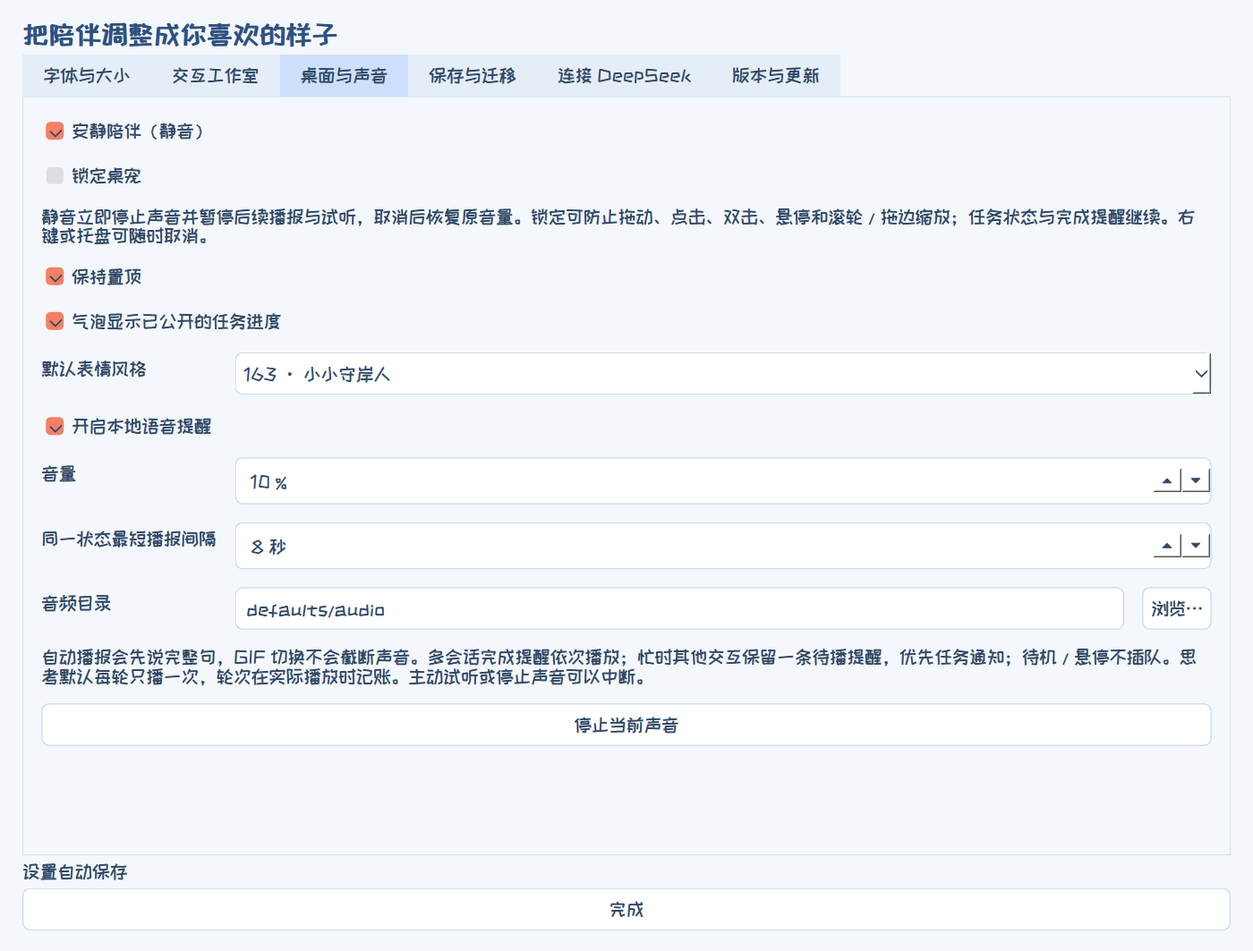
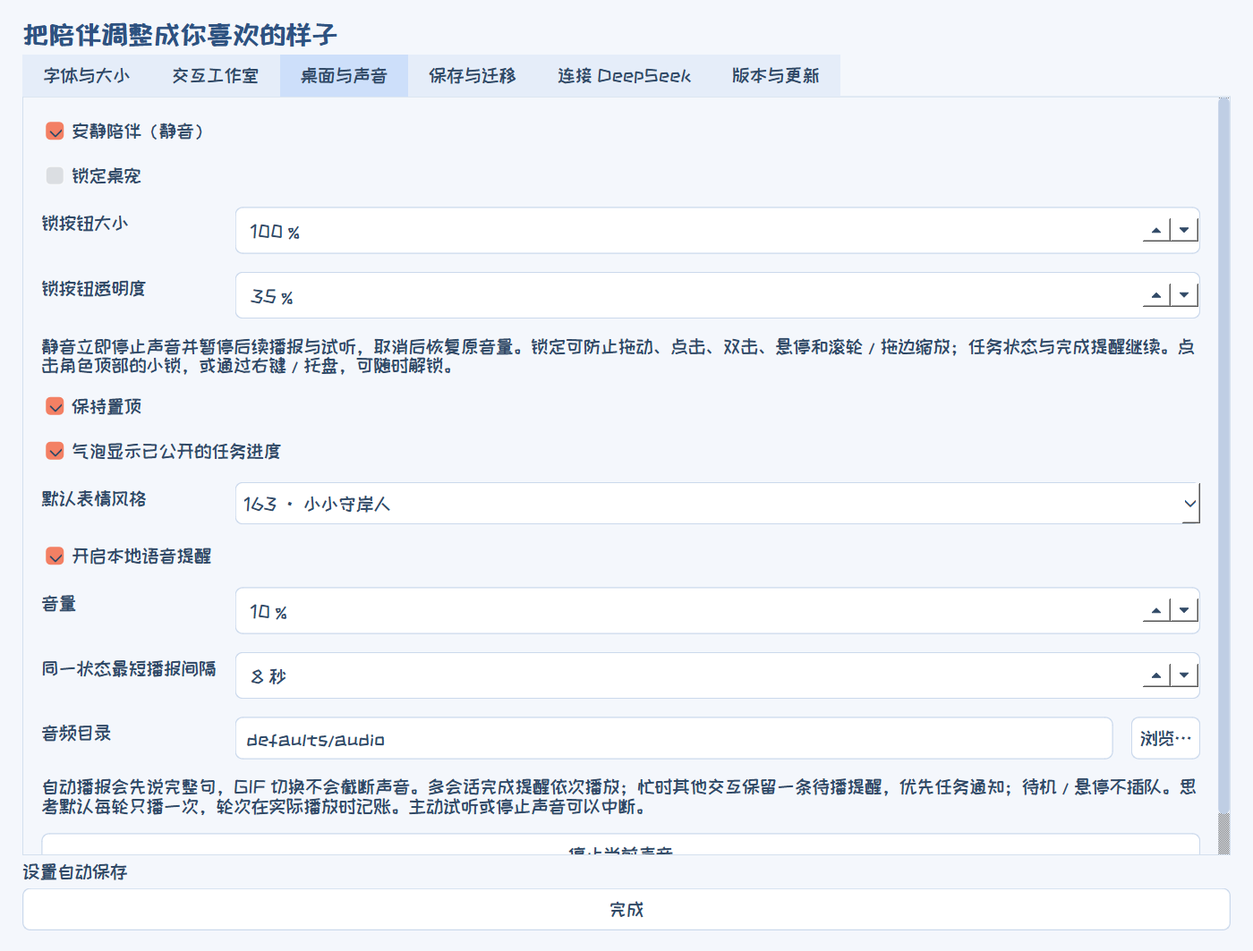
Add hover-revealed lock button with proportional size controls

Changed region(s): [[0.0307, 0.0931, 0.9829, 0.9003], [0.1843, 0.6209, 0.3071, 0.6519], [0.0307, 0.6209, 0.0921, 0.6519]]

diff --git a/tests/test_settings_controls.py b/tests/test_settings_controls.py
@@ -2,7 +2,7 @@
 import copy,json,pathlib,shutil,tempfile,unittest,wave
 from unittest.mock import patch
 from PySide6.QtCore import Qt,QPoint,QPointF,QEvent
-from PySide6.QtGui import QMouseEvent,QWheelEvent
+from PySide6.QtGui import QMouseEvent,QWheelEvent,QEnterEvent
 from PySide6.QtWidgets import QApplication,QPushButton
 from shorekeeper_pet import pet as module
 from shorekeeper_pet.config_io import save_atomic,migrate_settings,export_bundle,import_bundle
@@ -113,6 +113,67 @@ class SettingsControlsTests(unittest.TestCase):
             for name in ['audio/voice.wav','fonts/test.otf',module.ASSETS[self.aid]['path']]:self.assertEqual((source/name).read_bytes(),(self.root/name).read_bytes())
         with patch.object(p,'refresh_assets',return_value=[]): p.apply_settings(cfg)
         self.assertTrue(p.locked);self.assertTrue(p.options['audio_muted'])
+
+    def test_direct_lock_clicks_toggle_without_drag_or_character_reaction(self):
+        p=self.pet;button=p.lock_button;point=QPointF(button.rect().center())
+        before=(p.pos(),p.controller.serial)
+        for expected,tip in ((True,'点击解锁'),(False,'点击锁定')):
+            self.mouse(button,QEvent.Type.MouseButtonPress,point)
+            self.mouse(button,QEvent.Type.MouseButtonRelease,point)
+            self.assertEqual(p.locked,expected);self.assertEqual(button.isChecked(),expected)
+            self.assertEqual(button.toolTip(),tip)
+            self.assertEqual((p.pos(),p.controller.serial),before)
+            self.assertIsNone(p.drag_offset);self.assertFalse(p.click_timer.isActive())
+        self.mouse(button,QEvent.Type.MouseButtonPress,point)
+        outside=QPointF(button.width()+30,button.height()+30)
+        self.mouse(button,QEvent.Type.MouseMove,outside)
+        self.mouse(button,QEvent.Type.MouseButtonRelease,outside)
+        self.assertFalse(p.locked);self.assertEqual(p.pos(),before[0])
+
+    def test_lock_button_stays_centered_and_syncs_settings_and_hover(self):
+        p=self.pet;button=p.lock_button
+        for scale in (.5,1,1.5):
+            p.set_scale(scale)
+            self.assertAlmostEqual(button.x()+button.width()/2,p.pet_rect.center().x()*p.scale_factor,delta=1)
+            self.assertEqual(button.y(),round(p.pet_rect.top()*p.scale_factor))
+            self.assertTrue(p.rect().contains(button.geometry()))
+        p.hover_timer.start(500);p.click_timer.start(500);serial=p.controller.serial
+        point=QPointF(button.rect().center())
+        QApplication.sendEvent(button,QEnterEvent(point,point,QPointF(button.mapToGlobal(point.toPoint()))))
+        self.assertFalse(p.hover_timer.isActive());self.assertFalse(p.click_timer.isActive())
+        self.assertEqual(p.controller.serial,serial)
+        p.open_preferences('桌面与声音')
+        p.preferences.controls['interaction_locked'].setChecked(True)
+        self.assertTrue(button.isChecked());self.assertEqual(button.toolTip(),'点击解锁')
+        button.click();self.assertFalse(p.preferences.controls['interaction_locked'].isChecked())
+
+    def test_lock_transparency_changes_pixels_and_survives_export(self):
+        p=self.pet;p.open_preferences('桌面与声音');spin=p.preferences.controls['lock_button_transparency']
+        spin.setValue(0);solid=p.lock_button.grab().toImage()
+        spin.setValue(80);faint=p.lock_button.grab().toImage()
+        solid_alpha=sum(solid.pixelColor(x,y).alpha() for y in range(solid.height()) for x in range(solid.width()))
+        faint_alpha=sum(faint.pixelColor(x,y).alpha() for y in range(faint.height()) for x in range(faint.width()))
+        self.assertGreater(solid_alpha,faint_alpha*3)
+        p.preferences.controls['lock_button_size'].setValue(135)
+        cfg=module.load_settings();self.assertEqual(cfg['appearance']['lock_button_transparency'],80)
+        archive=self.root.parent/'lock.zip';self.assertEqual(export_bundle(archive,cfg,self.root),[])
+        restored=import_bundle(archive,self.root.parent/'换电脑')
+        self.assertEqual(restored['appearance']['lock_button_transparency'],80)
+        self.assertEqual(restored['appearance']['lock_button_size'],135)
+
+    def test_hover_reveals_lock_even_when_locked_and_size_scales_proportionally(self):
+        p=self.pet;b=p.lock_button
+        with patch('shorekeeper_pet.lock_button.QCursor.pos',return_value=QPoint(-3000,-3000)) as cursor:
+            for locked in (False,True):
+                p.set_option('interaction_locked',locked)
+                cursor.return_value=p.mapToGlobal(QPoint(-30,-30));b.refresh_visibility();self.assertFalse(b.isVisible())
+                cursor.return_value=p.mapToGlobal((p.pet_rect.center()*p.scale_factor).toPoint());b.refresh_visibility();self.assertTrue(b.isVisible())
+                cursor.return_value=p.mapToGlobal(b.geometry().center());b.refresh_visibility();self.assertTrue(b.isVisible())
+                cursor.return_value=p.mapToGlobal(p.quota_hit_rect().center().toPoint());b.refresh_visibility();self.assertFalse(b.isVisible())
+            p.set_scale(1);p.set_option('lock_button_size',75);small=b.width()
+            p.set_option('lock_button_size',150);self.assertAlmostEqual(b.width(),small*2,delta=1)
+            one=b.width();p.set_scale(1.5);self.assertAlmostEqual(b.width(),one*1.5,delta=1)
+            self.assertAlmostEqual(b.x()+b.width()/2,p.pet_rect.center().x()*p.scale_factor,delta=1)
 
     def test_legacy_quiet_migrates_and_explicit_new_preference_wins(self):
         self.assertTrue(migrate_settings({'quiet':True})['appearance']['audio_muted'])

diff --git a/shorekeeper_pet/lock_button.py b/shorekeeper_pet/lock_button.py
@@ -1,0 +1,80 @@
+"""A small hover-revealed lock toggle above the character."""
+from PySide6.QtCore import Qt,QRectF
+from PySide6.QtGui import QPainter,QPainterPath,QPen,QColor,QCursor
+from PySide6.QtWidgets import QAbstractButton
+
+
+class LockButton(QAbstractButton):
+    def __init__(self,pet):
+        super().__init__(pet);self.pet=pet;self.hovered=False
+        self.setCursor(Qt.CursorShape.PointingHandCursor)
+        self.setFocusPolicy(Qt.FocusPolicy.NoFocus)
+        self.setAttribute(Qt.WidgetAttribute.WA_TranslucentBackground)
+        self.setCheckable(True)
+        self.clicked.connect(lambda checked:pet.set_option('interaction_locked',checked))
+        self.sync();self.hide()
+
+    def sync(self):
+        self.setChecked(self.pet.locked)
+        text='点击解锁' if self.pet.locked else '点击锁定'
+        self.setToolTip(text);self.setAccessibleName(text);self.update()
+
+    def position_on_pet(self):
+        p=self.pet;s=p.scale_factor;r=p.pet_rect
+        size=max(1,round(28*p.options['lock_button_size']/100*p.options['pet_size']/230*s))
+        self.setGeometry(round(r.center().x()*s-size/2),max(0,round(r.top()*s)),size,size)
+        self.sync();self.raise_();self.refresh_visibility()
+
+    def refresh_visibility(self):
+        p=self.pet
+        over=p.pet_rect.contains(p.mapFromGlobal(QCursor.pos())/p.scale_factor)
+        self.setVisible(p.isVisible() and (over or self.isDown()))
+
+    def enterEvent(self,event):
+        self.hovered=True;self.pet.hover_timer.stop();self.pet.click_timer.stop();self.update()
+        super().enterEvent(event)
+
+    def leaveEvent(self,event):
+        self.hovered=False;self.update();super().leaveEvent(event)
+
+    def mousePressEvent(self,event):
+        self.pet.hover_timer.stop();self.pet.click_timer.stop()
+        if event.button()==Qt.MouseButton.LeftButton:self.setDown(True)
+        self.refresh_visibility();event.accept()
+
+    def mouseMoveEvent(self,event):
+        self.pet.hover_timer.stop()
+        if event.buttons()&Qt.MouseButton.LeftButton:self.setDown(self.rect().contains(event.position().toPoint()))
+        event.accept()
+
+    def mouseReleaseEvent(self,event):
+        if event.button()==Qt.MouseButton.LeftButton:
+            activate=self.isDown() and self.rect().contains(event.position().toPoint())
+            self.setDown(False)
+            if activate:self.click()
+        event.accept()
+
+    def mouseDoubleClickEvent(self,event): self.setDown(False);event.accept()
+    def wheelEvent(self,event): event.accept()
+    def contextMenuEvent(self,event): self.pet.contextMenuEvent(event)
+
+    def paintEvent(self,event):
+        painter=QPainter(self);painter.setRenderHint(QPainter.RenderHint.Antialiasing)
+        painter.scale(self.width()/36,self.height()/36)
+        opacity=1-self.pet.options['lock_button_transparency']/100
+        painter.setOpacity(opacity)
+        if self.isDown():painter.translate(0,1)
+        # Both outlines remain legible over light hair and dark backgrounds.
+        shackle=QPainterPath()
+        if self.isChecked():
+            shackle.moveTo(11,17);shackle.lineTo(11,11);shackle.cubicTo(11,2,25,2,25,11);shackle.lineTo(25,17)
+        else:
+            shackle.moveTo(13,17);shackle.lineTo(13,10);shackle.cubicTo(13,1,28,1,28,10)
+        painter.setPen(QPen(QColor('#203f67'),5,Qt.PenStyle.SolidLine,Qt.PenCapStyle.RoundCap));painter.drawPath(shackle)
+        painter.setPen(QPen(QColor('#edf6ff'),2.8,Qt.PenStyle.SolidLine,Qt.PenCapStyle.RoundCap));painter.drawPath(shackle)
+        painter.setPen(QPen(QColor('#dbefff'),1.5))
+        painter.setBrush(QColor('#2c6598' if self.isChecked() else '#55728e'))
+        painter.drawRoundedRect(QRectF(7,16,22,16),4,4)
+        painter.setPen(Qt.PenStyle.NoPen);painter.setBrush(QColor('#f3faff'))
+        painter.drawEllipse(QRectF(16.2,21,3.6,3.6));painter.drawRoundedRect(QRectF(17,23,2,4),.8,.8)
+        painter.end()

diff --git a/shorekeeper_pet/pet.py b/shorekeeper_pet/pet.py
@@ -22,6 +22,7 @@ from .presentation_size import EdgeResize
 from .media_library import load_catalog
 from .presets import load_defaults,default_bindings
 from .update_ui import UpdateController
+from .lock_button import LockButton
 
 SETTINGS=ROOT/'settings.json'
 STATES={
@@ -130,6 +131,7 @@ class Pet(PetRenderer,QWidget):
         self.hovered=False; self.ignore_release=False
         self.click_timer=QTimer(self); self.click_timer.setSingleShot(True); self.click_timer.timeout.connect(lambda:self.react('pet'))
         self.hover_timer=QTimer(self); self.hover_timer.setSingleShot(True); self.hover_timer.timeout.connect(self.hover_react)
+        self.lock_button=LockButton(self)
         icon_im=self.animation.frames[0].scaled(64,64,Qt.AspectRatioMode.KeepAspectRatio,Qt.TransformationMode.SmoothTransformation)
         self.icon=QIcon(str(ROOT/'assets/shorekeeper.ico'))
         if self.icon.isNull(): self.icon=QIcon(QPixmap.fromImage(icon_im))
@@ -302,6 +304,7 @@ class Pet(PetRenderer,QWidget):
             if self.controller.owner=='preview' and self.preview_audio_clip is not None:
                 binding=dict(binding,audio_clips=[dict(self.preview_audio_clip,enabled=True)])
             self.voice.trigger(self.state,binding,self.options,preview=self.controller.owner=='preview',task=task_key(self.notification or self.live_status),notification=self.controller.owner=='notification'); self.update_layout()
+        self.lock_button.refresh_visibility()
         self.update_bubble()
         self.update()
 
@@ -348,6 +351,7 @@ class Pet(PetRenderer,QWidget):
             self.drag_offset=event.globalPosition().toPoint()-self.pos(); self.drag_origin=event.globalPosition().toPoint(); self.dragged=False
 
     def mouseMoveEvent(self, event):
+        self.lock_button.refresh_visibility()
         if self.locked: event.accept(); return
         if self.quota_resize.move(event,self.quota_hit_rect()): return
         if self.drag_offset is not None and event.buttons()&Qt.MouseButton.LeftButton:
@@ -385,6 +389,7 @@ class Pet(PetRenderer,QWidget):
         else: event.ignore()
 
     def enterEvent(self,event):
+        self.lock_button.refresh_visibility()
         if not self.locked: self.hover_timer.start(1000)
         super().enterEvent(event)
 
@@ -396,7 +401,7 @@ class Pet(PetRenderer,QWidget):
         super().leaveEvent(event)
 
     def hover_react(self):
-        if self.locked: return
+        if self.locked or self.lock_button.geometry().contains(self.mapFromGlobal(QCursor.pos())): return
         local=self.mapFromGlobal(QCursor.pos())/self.scale_factor
         if not self.quota_resize.active and self.drag_offset is None and not self.override and not self.hovered and self.underMouse() and self.pet_rect.contains(local):
             self.hovered=True; self.react('hover')

diff --git a/shorekeeper_pet/appearance.py b/shorekeeper_pet/appearance.py
@@ -1,6 +1,6 @@
 import math
 from PySide6.QtGui import QFont,QFontDatabase
-DEFAULTS=dict(audio_muted=False,interaction_locked=False,check_updates_on_start=True,ignored_update_version='',font_family='LXGW WenKai',bubble_font_family='ZCOOL KuaiLe',bubble_font_size=19,quota_font_size=17,ui_font_size=17,bubble_width=390,bubble_width_ratio=1.0,quota_scale=1.0,pet_size=230,volume=75,audio_enabled=False,audio_cooldown=12,audio_directory='audio',deepseek_home='',deepseek_executable='',launch_with_deepseek=False)
+DEFAULTS=dict(lock_button_size=100,lock_button_transparency=35,audio_muted=False,interaction_locked=False,check_updates_on_start=True,ignored_update_version='',font_family='LXGW WenKai',bubble_font_family='ZCOOL KuaiLe',bubble_font_size=19,quota_font_size=17,ui_font_size=17,bubble_width=390,bubble_width_ratio=1.0,quota_scale=1.0,pet_size=230,volume=75,audio_enabled=False,audio_cooldown=12,audio_directory='audio',deepseek_home='',deepseek_executable='',launch_with_deepseek=False)
 
 def load_fonts(root):
     families=[]
@@ -13,7 +13,7 @@ def load_fonts(root):
 def appearance(settings):
     result=dict(DEFAULTS); item=settings.get('appearance',{})
     if isinstance(item,dict): result.update({k:v for k,v in item.items() if k in DEFAULTS})
-    for key,low,high in [('bubble_font_size',12,40),('quota_font_size',12,32),('ui_font_size',13,28),('bubble_width',300,650),('bubble_width_ratio',.75,4),('quota_scale',.5,2.5),('pet_size',140,420),('volume',0,100),('audio_cooldown',0,300)]:
+    for key,low,high in [('lock_button_size',50,200),('lock_button_transparency',0,90),('bubble_font_size',12,40),('quota_font_size',12,32),('ui_font_size',13,28),('bubble_width',300,650),('bubble_width_ratio',.75,4),('quota_scale',.5,2.5),('pet_size',140,420),('volume',0,100),('audio_cooldown',0,300)]:
         value=result[key]; result[key]=max(low,min(high,value)) if isinstance(value,(float,int)) and math.isfinite(value) else DEFAULTS[key]
     for key in ('font_family','bubble_font_family','audio_directory','deepseek_home','deepseek_executable'):
         if not isinstance(result[key],str): result[key]=DEFAULTS[key]

diff --git a/shorekeeper_pet/preferences.py b/shorekeeper_pet/preferences.py
@@ -37,7 +37,9 @@ class Preferences(QDialog):
         voice=self.tab('桌面与声音')
         muted=QCheckBox('安静陪伴（静音）'); muted.toggled.connect(lambda value:self.change('audio_muted',value)); self.controls['audio_muted']=muted; voice.addRow(muted)
         locked=QCheckBox('锁定桌宠'); locked.toggled.connect(lambda value:self.change('interaction_locked',value)); self.controls['interaction_locked']=locked; voice.addRow(locked)
-        tip=QLabel('静音立即停止声音并暂停后续播报与试听，取消后恢复原音量。锁定可防止拖动、点击、双击、悬停和滚轮／拖边缩放；任务状态与完成提醒继续。右键或托盘可随时取消。'); tip.setWordWrap(True); voice.addRow(tip)
+        voice.addRow('锁按钮大小',self.spin('lock_button_size',50,200,' %'))
+        voice.addRow('锁按钮透明度',self.spin('lock_button_transparency',0,90,' %'))
+        tip=QLabel('静音立即停止声音并暂停后续播报与试听，取消后恢复原音量。锁定可防止拖动、点击、双击、悬停和滚轮／拖边缩放；任务状态与完成提醒继续。点击角色顶部的小锁，或通过右键／托盘，可随时解锁。'); tip.setWordWrap(True); voice.addRow(tip)
         self.top=QCheckBox('保持置顶'); self.top.toggled.connect(lambda value:pet.set_top(value) if not self.loading else None); voice.addRow(self.top)
         self.notes=QCheckBox('气泡显示已公开的任务进度'); self.notes.toggled.connect(lambda value:pet.set_notes(value) if not self.loading else None); voice.addRow(self.notes)
         self.pack=QComboBox(); self.pack.addItem('163 · 小小守岸人','163'); self.pack.addItem('GB0227 · 近景表情','GB0227'); self.pack.currentIndexChanged.connect(lambda:pet.set_pack(self.pack.currentData()) if not self.loading else None); voice.addRow('默认表情风格',self.pack)

diff --git a/shorekeeper_pet/settings_checks.py b/shorekeeper_pet/settings_checks.py
@@ -26,6 +26,10 @@ def verify_controls(pet):
             started=pet.voice.trigger('pet',binding,pet.options,preview=True)
             pet.set_option('audio_muted',True)
             muted=started and not pet.voice.busy and not pet.voice.pending.isActive() and pet.voice.queued is None and not pet.voice.trigger('pet',binding,pet.options,preview=True)
-        return dict(lock_pointer_check=locked,unlock_check=unlocked,mute_playback_check=muted)
+        pet.set_option('interaction_locked',False);pet.lock_button.click()
+        direct_lock=pet.locked and pet.lock_button.toolTip()=='点击解锁'
+        pet.lock_button.click()
+        direct_lock=direct_lock and not pet.locked and pet.lock_button.toolTip()=='点击锁定'
+        return dict(lock_button_check=direct_lock,lock_pointer_check=locked,unlock_check=unlocked,mute_playback_check=muted)
     finally:
         pet.voice.stop();pet.options=original;pet.save_settings();pet.preferences.refresh_controls()

diff --git a/shorekeeper_pet/renderer.py b/shorekeeper_pet/renderer.py
@@ -72,6 +72,7 @@ class PetRenderer:
             self.resize(neww,newh)
             if anchor:
                 self.move(round(anchor[0]-self.pet_rect.center().x()*self.scale_factor),round(anchor[1]-self.pet_rect.bottom()*self.scale_factor)); self.clamp_position()
+        self.lock_button.position_on_pet()
         self.setToolTip(self.quota_details()); self.update_bubble(); self.size_changed.emit()
 
     def update_bubble(self):

diff --git a/shorekeeper_pet/paths.py b/shorekeeper_pet/paths.py
@@ -1,7 +1,7 @@
 import os,pathlib,sys
 ROOT=pathlib.Path(sys.executable).resolve().parent if getattr(sys,'frozen',False) else pathlib.Path(__file__).resolve().parents[1]
 DSH_HOME=pathlib.Path(os.environ.get('DSH_HOME',pathlib.Path.home()/'.dsh'))
-VERSION='0.2.0'
+VERSION='0.2.1'
 APP_NAME='守岸人DeepSeek桌宠启动'
 EXECUTABLE_NAME=APP_NAME+'.exe'
 PORTABLE_DIRNAME='守岸人DeepSeek桌宠'

diff --git a/README.en.md b/README.en.md
@@ -23,7 +23,7 @@ Recorded with **v0.1.0**, the roughly two-minute demo covers task states, concur
 ## Get started
 
 1. Install the Windows client from the [official DeepSeek Harness website](https://www.deepseek.com/harness/), open it, and sign in.
-2. Download [Shorekeeper-DeepSeek-Windows-v0.2.0.zip](https://github.com/Doya16/shorekeeper-deepseek-pet/releases/download/v0.2.0/Shorekeeper-DeepSeek-Windows-v0.2.0.zip), extract it completely, and run **守岸人DeepSeek桌宠启动.exe**.
+2. Download [Shorekeeper-DeepSeek-Windows-v0.2.1.zip](https://github.com/Doya16/shorekeeper-deepseek-pet/releases/download/v0.2.1/Shorekeeper-DeepSeek-Windows-v0.2.1.zip), extract it completely, and run **守岸人DeepSeek桌宠启动.exe**.
 3. Fully quit Harness from its tray menu. Right-click the pet → **设置 → 连接 DeepSeek → 安装 / 更新 Harness 连接插件** (Settings → Connect to DeepSeek → Install / Update Harness Connection Plugin).
 4. Reopen Harness and start a task. The pet follows the most recently active conversation.
 
@@ -34,14 +34,16 @@ Repeat steps 3–4 when updating the connection plugin. No additional API key is
 Right-click the pet or tray icon → **设置…** (Settings). One window contains size and fonts, the interaction studio, desktop and sound, save and migration, client connection, and updates.
 
 - **安静陪伴（静音）** (Mute) immediately stops current and queued audio, and silences automatic speech and previews. Unmuting restores the original volume without replaying missed speech.
-- **锁定桌宠** (Lock pet) prevents dragging, clicks, double-clicks, hover reactions and wheel/edge resizing. Task animations and completion notifications continue. Right-click or use the tray to unlock.
+- **Top lock button:** move the pointer over the character to reveal its small lock at the top center. Click to lock or unlock; it hides when the pointer leaves. Its tooltip shows **点击锁定** (Click to lock) or **点击解锁** (Click to unlock). Locking prevents dragging, clicks, double-clicks, hover reactions and wheel/edge resizing. Task animations and completion notifications continue. Right-click or use the tray to unlock.
 - Both options save automatically and travel with exported settings and portable packages. The old quiet-companion option becomes mute; locking is off by default.
+
+<img src="docs/demo/pet-lock.png" width="180" alt="桌宠顶部小锁（示例）">
 
 ![Unified desktop and sound settings](docs/demo/unified-settings.png)
 
 ## Checking for updates and keeping your settings
 
-Current version: **v0.2.0**. After each launch, the pet checks GitHub for a stable release and prompts you when a newer one is available. Right-click → **设置 → 版本与更新 → 立即检查更新** (Check for updates) to check manually.
+Current version: **v0.2.1**. After each launch, the pet checks GitHub for a stable release and prompts you when a newer one is available. Right-click → **设置 → 版本与更新 → 立即检查更新** (Check for updates) to check manually.
 
 Open **设置 → 版本与更新** (Settings → Version & Updates) to disable startup checks, check immediately, or restore ignored version reminders. A new-version prompt lets you open the release page, back up settings and media, remind you later, or ignore that version. A failed background check does not interrupt the pet.
 
@@ -51,8 +53,8 @@ Open **设置 → 版本与更新** (Settings → Version & Updates) to disable 
 
 | Your installation | How to update |
 | --- | --- |
-| v0.1.2 | Download the [v0.2.0 program patch](https://github.com/Doya16/shorekeeper-deepseek-pet/releases/download/v0.2.0/Shorekeeper-DeepSeek-Settings-Patch-v0.2.0.zip), exit the pet, extract over its existing folder, and restart |
-| New installation or another older version | Extract the [v0.2.0 full package](https://github.com/Doya16/shorekeeper-deepseek-pet/releases/download/v0.2.0/Shorekeeper-DeepSeek-Windows-v0.2.0.zip) into a new folder, then import your exported settings and assets ZIP if you have one |
+| v0.2.0 | Download the [v0.2.1 program patch](https://github.com/Doya16/shorekeeper-deepseek-pet/releases/download/v0.2.1/Shorekeeper-DeepSeek-Settings-Patch-v0.2.1.zip), exit the pet, extract over its existing folder, and restart |
+| New installation or another older version | Extract the [v0.2.1 full package](https://github.com/Doya16/shorekeeper-deepseek-pet/releases/download/v0.2.1/Shorekeeper-DeepSeek-Windows-v0.2.1.zip) into a new folder, then import your exported settings and assets ZIP if you have one |
 
 The program patch preserves **GIFs / images, audio, bubble captions, fonts, and personal settings**. Before updating, use **保存与迁移 → 导出配置与素材包（ZIP）** (Save & Migrate → Export Settings & Assets ZIP) to keep a backup. Extract program patches into the application folder; do not import them as settings.
 

diff --git a/README.md b/README.md
@@ -23,7 +23,7 @@
 ## 开始使用
 
 1. 从 [DeepSeek 官网](https://www.deepseek.com/harness/) 下载 Windows 客户端，启动并登录。
-2. 下载 **Shorekeeper-DeepSeek-Windows-v0.2.0.zip**，完整解压，双击 **守岸人DeepSeek桌宠启动.exe**。
+2. 下载 **Shorekeeper-DeepSeek-Windows-v0.2.1.zip**，完整解压，双击 **守岸人DeepSeek桌宠启动.exe**。
 3. 从 DeepSeek 托盘菜单完全退出客户端。桌宠右键 → **设置 → 连接 DeepSeek → 安装 / 更新 Harness 连接插件**。
 4. 重新打开 Harness，开始任务。桌宠自动跟随最近活动的会话。
 
@@ -34,14 +34,18 @@
 右键桌宠或托盘 → **设置…**，在同一个窗口调整 **字体与大小、交互工作室、桌面与声音、保存与迁移、连接、版本与更新**。GIF、语音字幕、播放频率、启动联动和更新检查都在这里。
 
 - **安静陪伴（静音）**：立即停止当前和待播声音，同时暂停自动语音与试听；取消后恢复原音量，不补播静音期间的声音。
-- **锁定桌宠**：阻止误拖动、单击、双击、悬停和滚轮／拖边缩放。任务动画与完成提醒继续；仍可右键或通过托盘取消锁定。
+- **顶部小锁**：鼠标移到角色身上时，顶部居中会显示小锁，点击即可锁定／解锁；移开鼠标后隐藏，悬停显示“点击锁定”或“点击解锁”。锁定后阻止误拖动、单击、双击、悬停和滚轮／拖边缩放。任务动画与完成提醒继续；仍可右键或通过托盘取消锁定。
 - 两个开关都会自动保存，导出配置素材包或便携完整包时一起携带。旧版开启的“安静陪伴”会转为静音；新加入的锁定默认关闭。
+
+小锁大小可在 **设置 → 桌面与声音** 调整，之后随桌宠整体等比例缩放。
+
+<img src="docs/demo/pet-lock.png" width="180" alt="桌宠顶部小锁（示例）">
 
 ![统一设置中的桌面与声音选项](docs/demo/unified-settings.png)
 
 ## 检查更新与保留配置升级
 
-当前版本：**v0.2.0**。每次启动桌宠后，自动在后台检查 GitHub 正式版本；发现新版才弹出提示。右键 → **设置 → 版本与更新 → 立即检查更新** 可随时手动检查。
+当前版本：**v0.2.1**。每次启动桌宠后，自动在后台检查 GitHub 正式版本；发现新版才弹出提示。右键 → **设置 → 版本与更新 → 立即检查更新** 可随时手动检查。
 
 在 **设置 → 版本与更新** 中，可关闭启动检查、立即检查或恢复已忽略版本的提醒。新版提示支持 **打开更新页面、备份配置与素材、稍后提醒、忽略此版本**。网络检查失败不会打断桌宠。
 
@@ -51,8 +55,8 @@
 
 | 当前情况 | 如何更新 |
 | --- | --- |
-| 已有 v0.1.2 | 下载 [v0.2.0 程序补丁](https://github.com/Doya16/shorekeeper-deepseek-pet/releases/download/v0.2.0/Shorekeeper-DeepSeek-Settings-Patch-v0.2.0.zip)，退出桌宠，将补丁解压到原目录并覆盖同名文件，然后重新启动 |
-| 首次使用，或安装了其他旧版 | 下载 [v0.2.0 完整包](https://github.com/Doya16/shorekeeper-deepseek-pet/releases/download/v0.2.0/Shorekeeper-DeepSeek-Windows-v0.2.0.zip)，解压到新目录；已有配置时，再导入自己导出的配置与素材 ZIP |
+| 已有 v0.2.0 | 下载 [v0.2.1 程序补丁](https://github.com/Doya16/shorekeeper-deepseek-pet/releases/download/v0.2.1/Shorekeeper-DeepSeek-Settings-Patch-v0.2.1.zip)，退出桌宠，将补丁解压到原目录并覆盖同名文件，然后重新启动 |
+| 首次使用，或安装了其他旧版 | 下载 [v0.2.1 完整包](https://github.com/Doya16/shorekeeper-deepseek-pet/releases/download/v0.2.1/Shorekeeper-DeepSeek-Windows-v0.2.1.zip)，解压到新目录；已有配置时，再导入自己导出的配置与素材 ZIP |
 
 程序补丁保留 **GIF / 图片、音频、气泡字幕、字体和个人设置**。更新前可在 **保存与迁移 → 导出配置与素材包（ZIP）** 留一份备份。程序补丁直接解压覆盖，不在设置中导入。
 

diff --git a/docs/USAGE.md b/docs/USAGE.md
@@ -46,6 +46,6 @@
 
 右键勾选 **安静陪伴（静音）** 后，立即停止当前及待播声音，自动播报和主动试听都不再发声。取消勾选后恢复原来的音量；静音期间的声音不会补播。也可在 **设置 → 桌面与声音** 调整。
 
-勾选 **锁定桌宠** 后，不会因拖动、单击、双击、悬停、Ctrl + 滚轮或拖动气泡／配额条边缘而改变桌宠。任务动画、完成提醒和额度刷新仍会运行。可通过桌宠或托盘的右键菜单取消锁定，也可以在设置中明确调整大小。
+鼠标移到桌宠身上，点击顶部居中的小锁，或勾选 **锁定桌宠** 后，不会因拖动、单击、双击、悬停、Ctrl + 滚轮或拖动气泡／配额条边缘而改变桌宠。任务动画、完成提醒和额度刷新仍会运行。可通过桌宠或托盘的右键菜单取消锁定，也可以在设置中明确调整大小。
 
 两个开关自动保存，随配置素材包和完整便携包迁移。旧版“安静陪伴”开启时迁移为静音；旧版未提供的锁定功能默认为关闭。
